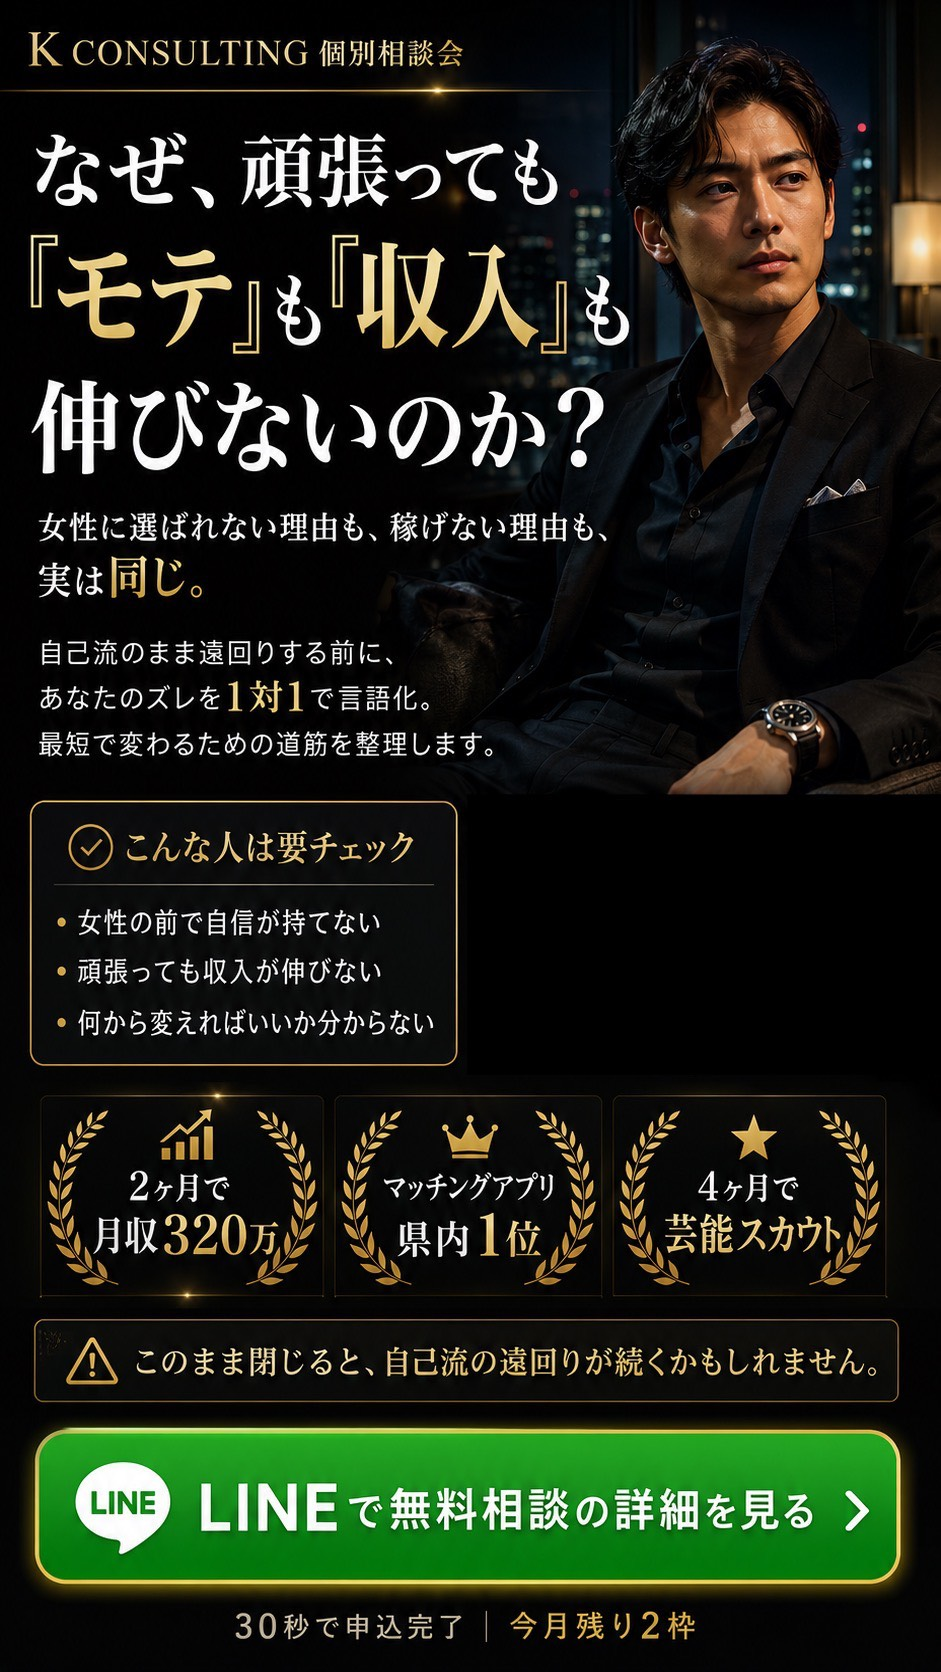
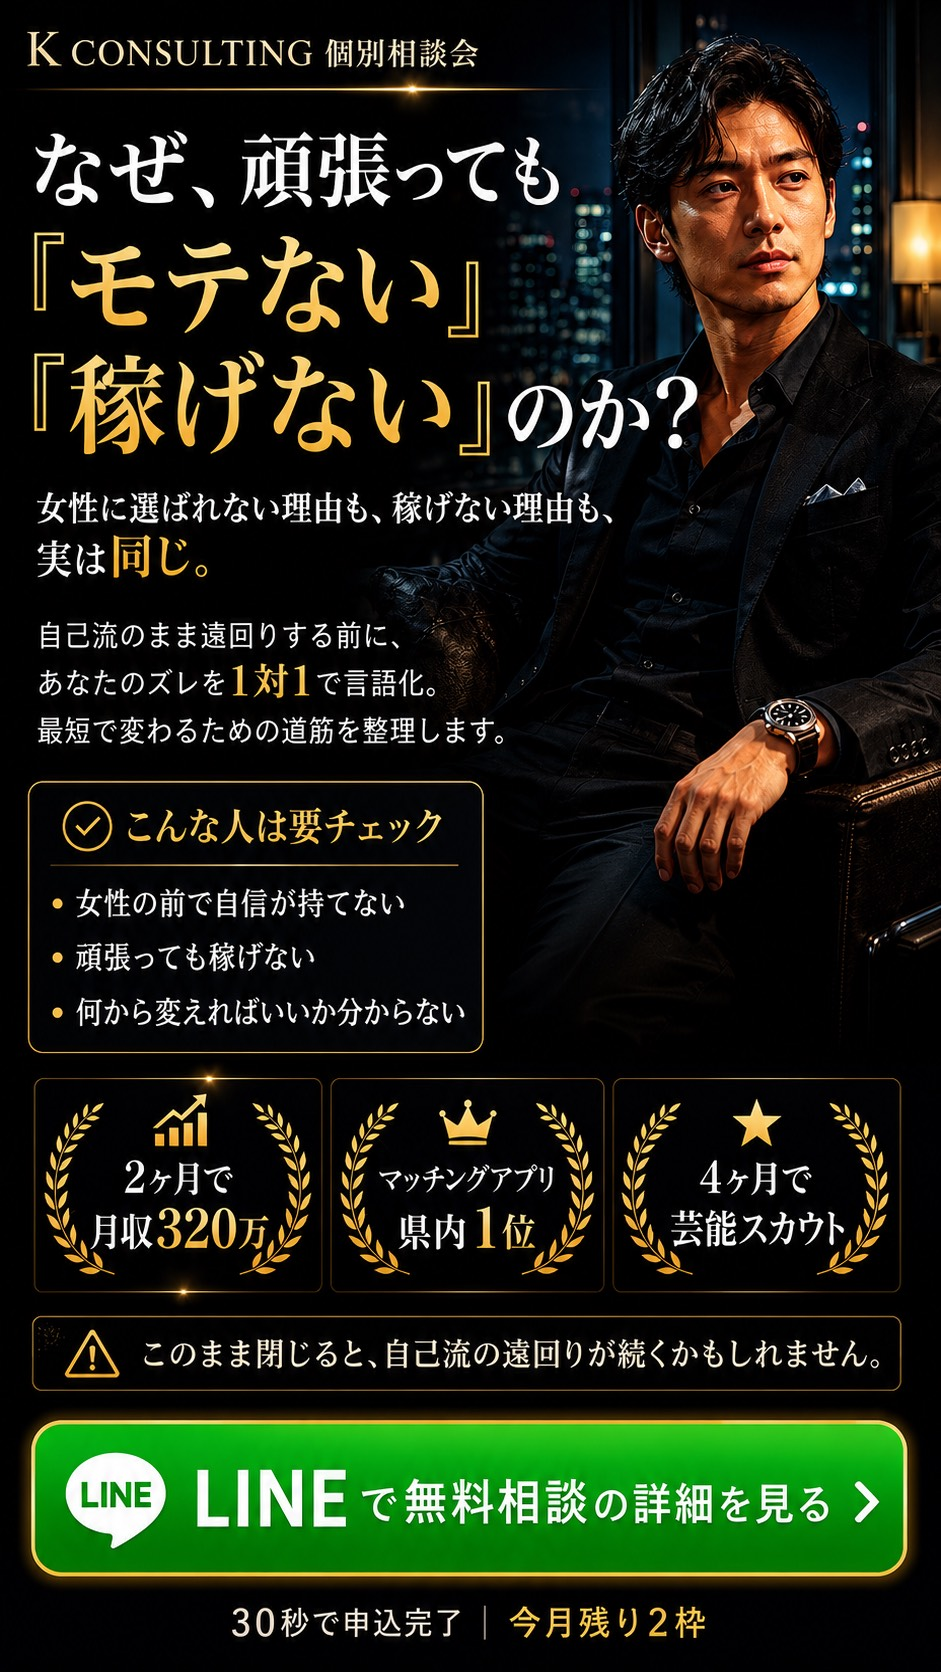
Update consultation first view image

diff --git a/index.html b/index.html
@@ -1541,11 +1541,11 @@ height="0" width="0" style="display:none;visibility:hidden"></iframe></noscript>
 <!-- ============ HERO ============ -->
 <header class="hero hero-poster" data-screen-label="01 Hero">
   <div class="hero-poster-card reveal">
-    <img src="fv-consulting.jpg" alt="なぜ、頑張っても『モテ』も『収入』も伸びないのか。女性に選ばれない理由も、稼げない理由も、実は同じ。LINEで無料相談の詳細を見る。" fetchpriority="high" decoding="async">
+    <img src="fv-consulting.jpg" alt="なぜ、頑張っても『モテない』『稼げない』のか。女性に選ばれない理由も、稼げない理由も、実は同じ。LINEで無料相談の詳細を見る。" fetchpriority="high" decoding="async">
     <a href="https://liff.line.me/1656900754-NQBaa2k3?calendar_salon_id=19911&amp;ts=1778910739" class="hero-hotspot" aria-label="LINEで無料相談の詳細を見る"></a>
   </div>
   <div class="sr-only">
-    <h1>なぜ、頑張っても『モテ』も『収入』も伸びないのか？</h1>
+    <h1>なぜ、頑張っても『モテない』『稼げない』のか？</h1>
     <p>女性に選ばれない理由も、稼げない理由も、実は同じ。自己流のまま遠回りする前に、あなたのズレを1対1で言語化します。</p>
   </div>
 </header>
